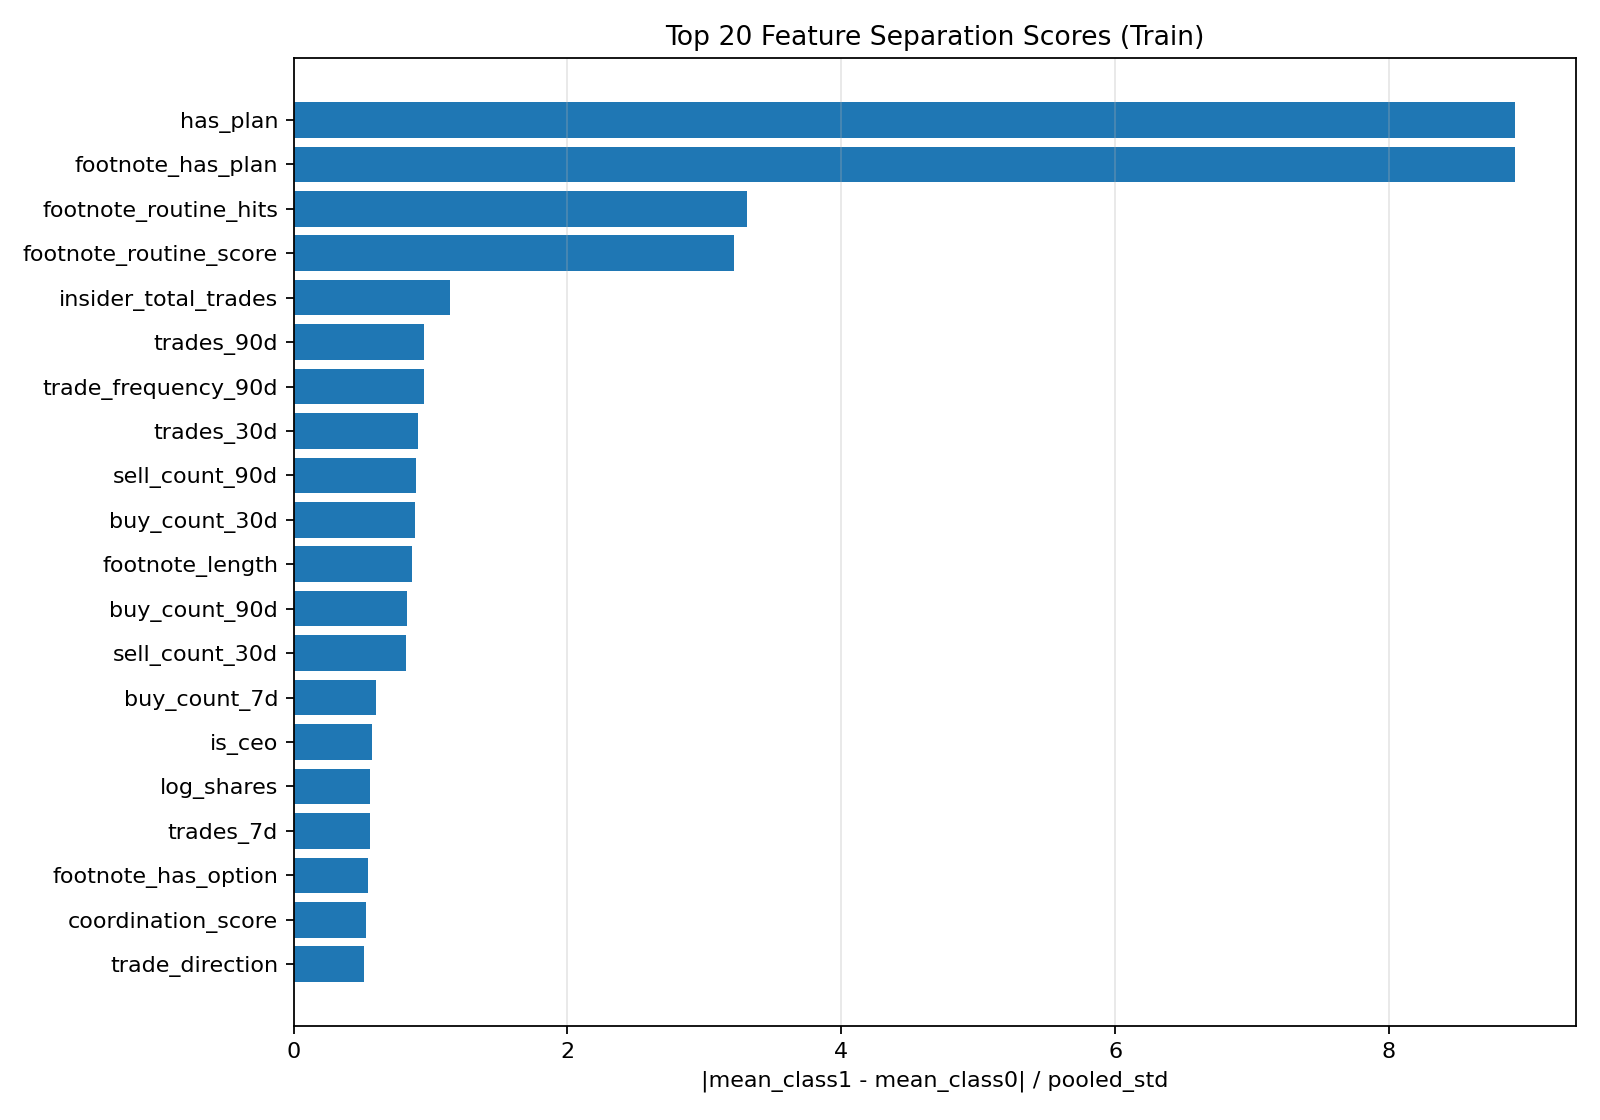
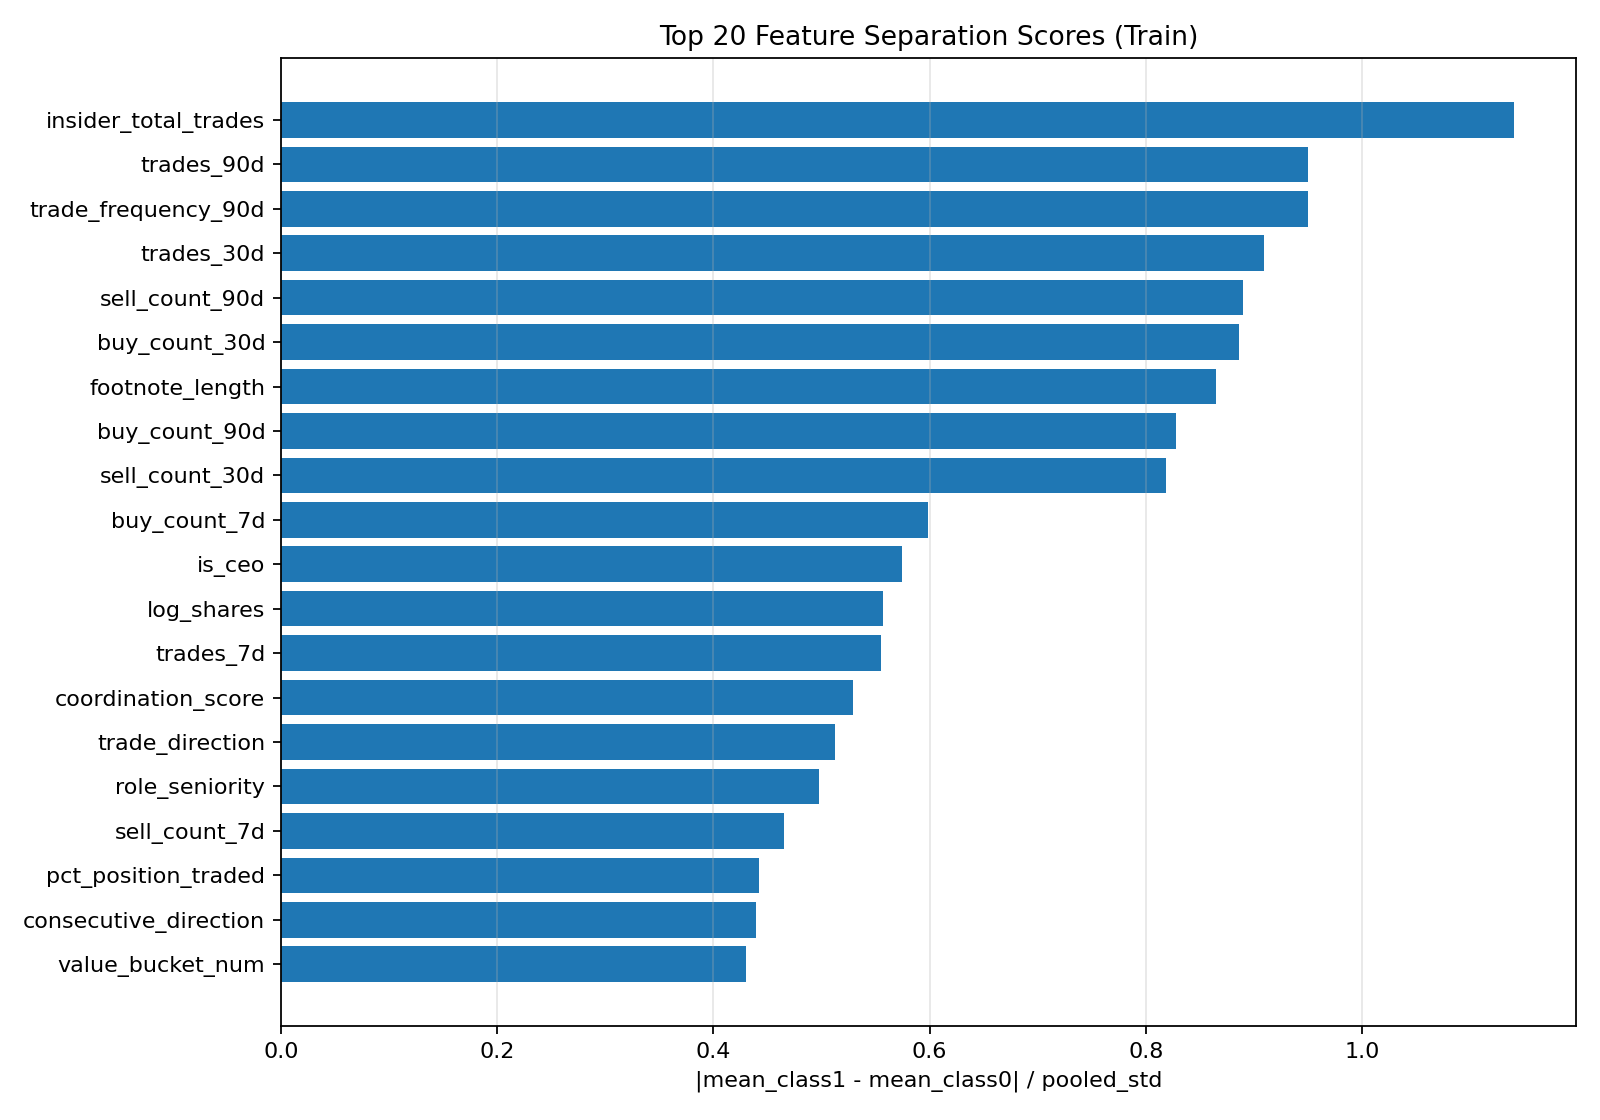
remove correlated features and update leakage cols

diff --git a/src/models/naive_bayes_model.py b/src/models/naive_bayes_model.py
@@ -30,67 +30,30 @@ TRANSACTION_CODE_COL = "transaction_code"
 VALID_TRANSACTION_CODES = {"P", "S"}
 VALID_LABELS = {0, 1}
 
+
 FEATURE_COLS = [
-    "log_shares",
-    "log_total_value",
-    "log_shares_owned_after",
-    "total_value_is_imputed",
-    "trade_direction",
-    "signed_value",
-    "days_to_filing",
-    "pct_position_traded",
-    "txn_day_of_week",
-    "txn_month",
-    "txn_quarter",
-    "role_seniority",
-    "is_ceo",
-    "is_cfo",
-    "is_coo",
-    "is_director_only",
-    "is_open_market",
-    "is_derivative",
-    "has_plan",
-    "insider_total_trades",
-    "insider_avg_trade_value",
-    "insider_buy_sell_ratio",
-    "insider_tenure_days",
-    "trades_7d",
-    "trades_30d",
-    "trades_90d",
-    "buy_count_7d",
-    "sell_count_7d",
-    "buy_count_30d",
-    "sell_count_30d",
-    "buy_count_90d",
-    "sell_count_90d",
-    "net_value_7d",
-    "net_value_30d",
-    "net_value_90d",
-    "days_since_last_trade",
-    "consecutive_direction",
-    "trade_frequency_90d",
-    "other_insiders_72h",
-    "same_dir_insiders_72h",
-    "coordination_score",
-    "cluster_flag",
-    "footnote_length",
-    "footnote_has_plan",
-    "footnote_routine_score",
-    "footnote_routine_hits",
-    "footnote_informed_hits",
-    "footnote_has_option",
-    "value_bucket_num",
+    "log_shares", "log_total_value", "log_shares_owned_after",
+    "total_value_is_imputed", "trade_direction", "signed_value",
+    "days_to_filing", "pct_position_traded", "txn_day_of_week",
+    "txn_month", "txn_quarter", "role_seniority", "is_ceo", "is_cfo",
+    "is_coo", "is_director_only", "is_open_market", "is_derivative",
+    "insider_total_trades", "insider_avg_trade_value",
+    "insider_buy_sell_ratio", "insider_tenure_days", "trades_7d",
+    "trades_30d", "trades_90d", "buy_count_7d", "sell_count_7d",
+    "buy_count_30d", "sell_count_30d", "buy_count_90d", "sell_count_90d",
+    "net_value_7d", "net_value_30d", "net_value_90d",
+    "days_since_last_trade", "consecutive_direction", "trade_frequency_90d",
+    "other_insiders_72h", "same_dir_insiders_72h", "coordination_score",
+    "cluster_flag", "footnote_length", "value_bucket_num"
 ]
 
 LEAKAGE_COLS = {
-    "future_close",
-    "forward_return",
-    "benchmark_return",
-    "abnormal_return",
-    "signed_abnormal_return",
-    "price_signal",
-    "earnings_proximity_flag",
-    "enforcement_followup_flag",
+    "future_close", "forward_return", "benchmark_return",
+    "abnormal_return", "signed_abnormal_return", "price_signal",
+    "earnings_proximity_flag", "enforcement_followup_flag",
+    "has_plan", "footnote_has_plan", "footnote_routine_score",
+    "footnote_routine_hits", "footnote_informed_hits", "footnote_has_option",
+    "informed_label", "routine_label", "cohen_label", "plan_override",
 }
 
 
